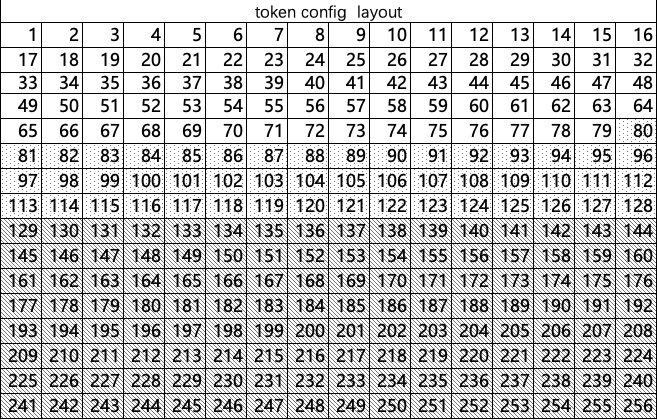
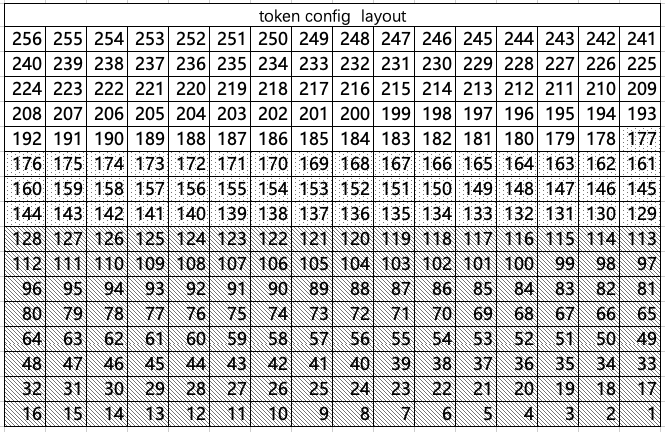
update good config storage layout 20251207

diff --git a/i18n/zh/docusaurus-plugin-content-docs/current/knowledge/whitepaper/whitepaper.md b/i18n/zh/docusaurus-plugin-content-docs/current/knowledge/whitepaper/whitepaper.md
@@ -195,40 +195,41 @@ $$
 
 ### 4.3 Token配置
 
-Token配置占255位,这是布局图:
-![alt text](whitepaper_image_cn/tokenconfig.png)
+Token配置占255位,这是布局图:  
+![alt text](whitepaper_image_cn/tokenconfig.png)  
 说明:  
-1-79为已经配置占用
-80-128为预留字段
-129-256已经占用,在储市场价值字段.
+178-256为已经配置占用
+129-177为预留字段
+1-128已经占用,在储市场价值字段.
 
 
 #### 4.3.1 市场可以调整
 
 | id  | 配置项             | 位数 | 单位     | 最大值 | 最小值 | 起始位 | 结束位 | 说明 |
 | --- | ------------------ | ---- | -------- | ------ | ------ | ------ | ------ | ---- |
-| 1   | 市场价值Token      | 1    | BOOLEAN  | 1      | 0      | 1      | 1      |      |
-| 2   | 是否冻结           | 1    | BOOLEAN  | 1      | 0      | 2      | 2      |      |
-| 3   | Token投资者分佣    | 3    | 十分之一 | 7      | 1      | 3      | 5      |      |
-| 4   | 代币运营者分佣     | 4    | 百分之二 | 7      | 1      | 6      | 9      |      |
-| 5   | 门户分佣           | 3    | 百分之四 | 7      | 1      | 10     | 12     |      |
-| 6   | 推荐者分佣         | 5    | 百分之一 | 31     | 1      | 13     | 17     |      |
-| 7   | 用户分佣           | 5    | 百分之一 | 31     | 1      | 18     | 22     |      |
-| 8   | 协议费率           | 5    | 百分之一 | 31     | 1      | 23     | 27     |      |
-| 9   | 最大流动性加强倍数 | 5    | 1倍      | 31     | 1      | 28     | 32     |      |
-| 10   | 是否申请 | 1   | 1倍      | 1     | 1      | 33     | 33     |      |
+| 1   | 市场价值Token      | 1    | BOOLEAN  | 1      | 0      | 256    | 256    |      |
+| 2   | 是否冻结           | 1    | BOOLEAN  | 1      | 0      | 255    | 255    |      |
+| 3   | Token投资者分佣    | 3    | 十分之一 | 7      | 1      | 252    | 254    |      |
+| 4   | 代币运营者分佣     | 4    | 百分之二 | 7      | 1      | 248    | 251    |      |
+| 5   | 门户分佣           | 3    | 百分之四 | 7      | 1      | 245    | 247    |      |
+| 6   | 推荐者分佣         | 5    | 百分之一 | 31     | 1      | 240    | 244    |      |
+| 7   | 用户分佣           | 5    | 百分之一 | 31     | 1      | 235    | 239    |      |
+| 8   | 协议费率           | 5    | 百分之一 | 31     | 1      | 230    | 234    |      |
+| 9   | 最大流动性加强倍数 | 5    | 1倍      | 31     | 1      | 225    | 229    |      |
+| 10  | 是否申请           | 1    | 1倍      | 1      | 1      | 224    | 224    |      |
 | ... |                    |      |          |        |        |        |        |      |
+
 > 备注:分佣比例的和为100
 #### 4.3.2 用户可以配置
 
 | id  | 配置项         | 位数 | 单位     | 最大值 | 最小值 | 起始位 | 结束位 | 说明          |
 | --- | -------------- | ---- | -------- | ------ | ------ | ------ | ------ | ------------- |
-| 1   | 投资费率       | 6    | 万分之一 | 63     | 0      | 34     | 39     | (0~63)/10000  |
-| 2   | 撤资费率       | 6    | 万分之一 | 63     | 0      | 40     | 45     | (0~63)/10000  |
-| 3   | 购买费率       | 7    | 万分之一 | 127    | 0      | 46     | 52     | (0~127)/10000 |
-| 4   | 出售费率       | 7    | 万分之一 | 127    | 0      | 53     | 59     | (0~127)/10000 |
-| 5   | 流动性加强倍数  | 5   | 1       | 1023   | 0      | 65     | 69     | (1~1023)      |
-| 6   | 撤资切片数      | 10   | 1        | 1023   | 0      | 70     | 79     | (1~1023)      |
+| 1   | 投资费率       | 6    | 万分之一 | 63     | 0      | 218    | 223    | (0~63)/10000  |
+| 2   | 撤资费率       | 6    | 万分之一 | 63     | 0      | 212    | 217    | (0~63)/10000  |
+| 3   | 购买费率       | 7    | 万分之一 | 127    | 0      | 205    | 211    | (0~127)/10000 |
+| 4   | 出售费率       | 7    | 万分之一 | 127    | 0      | 198    | 204    | (0~127)/10000 |
+| 5   | 流动性加强倍数 | 5    | 1        | 31   | 0      | 187    | 192    | (1~1023)      |
+| 6   | 撤资切片数     | 10   | 1        | 1023   | 0      | 177    | 186    | (1~1023)      |
 
 ## 5 元Token的添加
 元Token指协议在部署后添加的第一个Token,同时为协议衡量后续添加的代币的价值.元Token也是一种价值Token.
